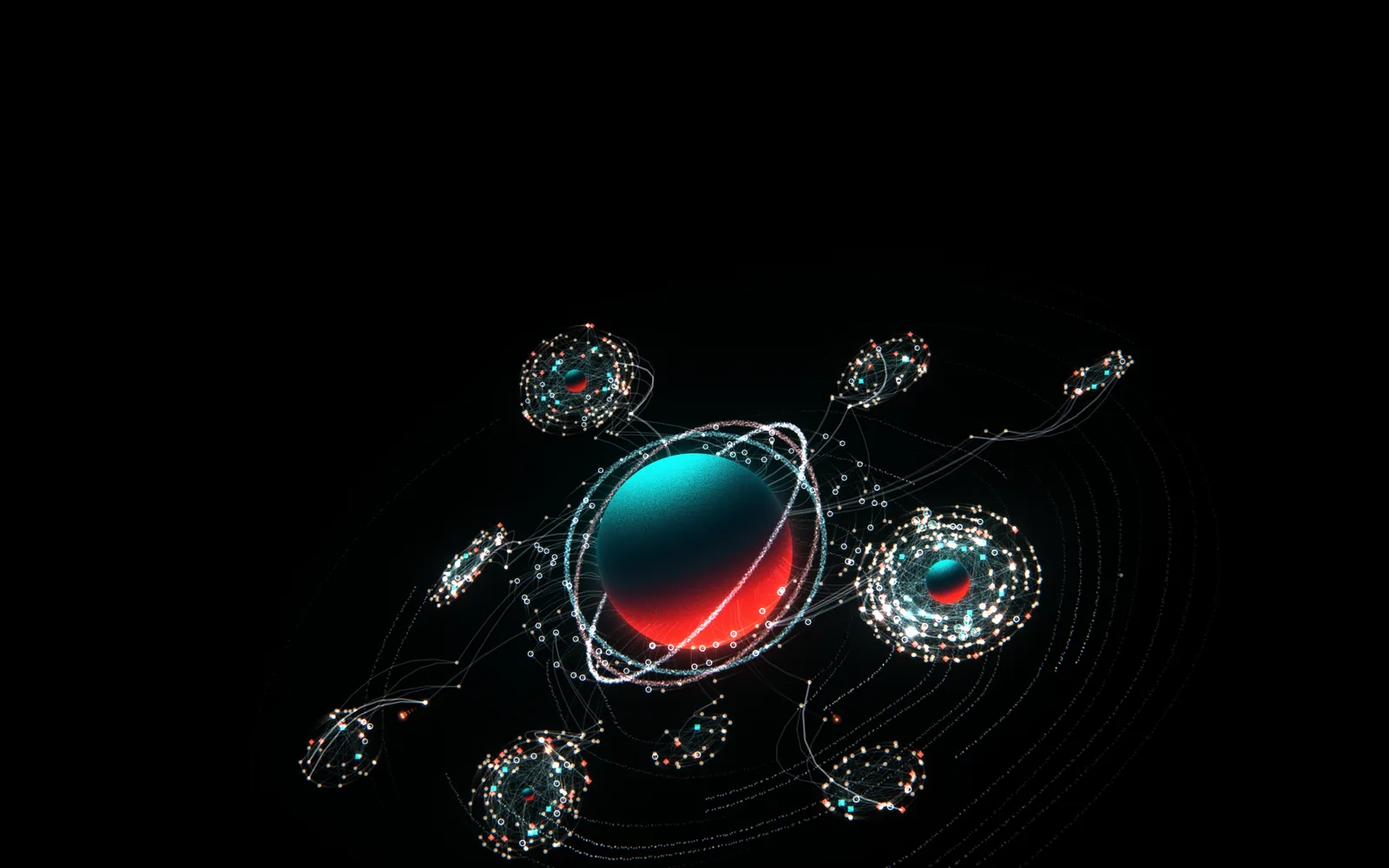
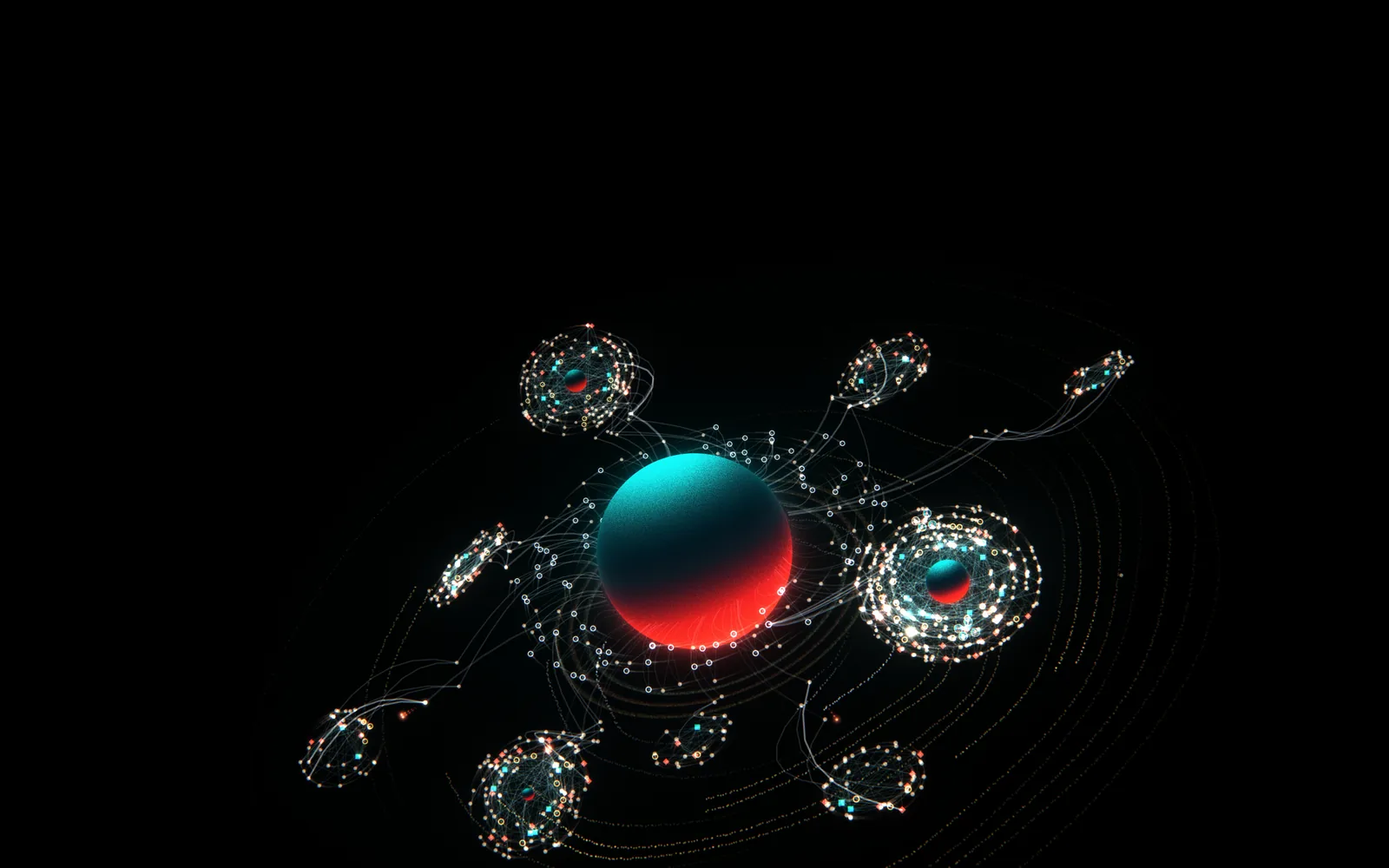
Home: gold is the norm; silver is the national org's
Everyone comes in at the local level: the central platform directs them to
their own Lab, their regional association. So the metal people see is gold,
the regional metal, and they discover what silver means later. In explainer
visuals the national org is always silver.

- Gold: the Labs' orbit dust, knowledge in a Lab, the glyphs' rims, Share
  (its gem, its thread, its colour), the story glyphs (workshops, Mentors'
  rings, the knot's workshop, contributions).
- Silver, the national org's alone: the commons round the orb (its dust, its
  knowledge, the contributors and the ties into it), the orb's wave, and the
  official version it sends out to every Lab. So what the Labs give, gold,
  comes back from the centre as silver.
- --metal is gold; --national is the silver token. The world's card marks
  the commons' knowledge and contributors in silver.
- The account notes say it connects you with your local Lab.
- Poster and share image re-rendered.

Claude-Session: https://claude.ai/code/session_01XKsNEHi8zSBaP9Uzfm5Zkd

Changed region(s): [[0.4062, 0.465, 0.625, 0.806]]

diff --git a/src/scripts/orbnet.ts b/src/scripts/orbnet.ts
@@ -9,12 +9,15 @@
    scale, only actors and their ties. People, places (the libraries), projects and
    knowledge (playbooks, code) are all actors, each its own mark:
      people     a pearl dot         places     a teal square
-     projects   a red diamond       knowledge  a silver ring
+     projects   a red diamond       knowledge  a gold ring
    These are the page's glyphs too, in the pins' materials: the three paths
-   joining opens wear the same colours (learn teal, build red, share
-   silver), so the model, the emblem, the weave and the gems are one visual
-   language. The metal is silver because this is national (regional would be
-   brass); the orbits are silver dust.
+   joining opens wear the same colours (learn teal, build red, share gold), so
+   the model, the emblem, the weave and the gems are one visual language. The
+   metal is gold, the norm: everyone comes in through their own Lab, and gold is
+   the regional metal; the Labs' orbits are gold dust. Silver belongs to the
+   national org alone, so it shows only at the centre: the commons round the orb
+   (its dust, its knowledge, the ties into it), the orb's wave, and what the orb
+   sends out to every Lab. Its meaning is there to be discovered later.
    A Lab is nothing but its ties, and the whole behaves like a complex adaptive
    system: newcomers drift in and are pulled into the Lab with the strongest pull
    near them, new ties form as ideas spread, and it never stops rearranging.
@@ -29,7 +32,8 @@
    the three paths in order. A project makes something new and a spark runs
    out along its ties (red: build); the big ones find their way up through a
    contributor to the orb (teal: what was learned). The orb flares, a silver wave
-   crosses the orbits, and the idea comes back down (silver: passed on) to every
+   crosses the orbits, and the idea comes back down (silver: the national org's
+   official version) to every
    Lab tied to the commons, where it spreads again. Sparks strengthen the ties they
    cross, adopters form new ties, and what reaches the orb leaves new knowledge
    in the commons. Everything leaves a fading trail along its orbit.
@@ -504,8 +508,13 @@ bool culled(vec3 p) { return (uM * p).z * uSide < 0.0; }`;
 const GLSL_STATE = `
 uniform highp sampler2D uPos; uniform highp sampler2D uSt; uniform highp sampler2D uOrb;
 ivec2 texAt(int i) { return ivec2(i % ${TEXW}, i / ${TEXW}); }
-const vec3 COL[5] = vec3[5](vec3(1.0, 0.86, 0.74), vec3(0.14, 0.84, 0.86), vec3(1.0, 0.36, 0.28), vec3(0.84, 0.89, 0.95), vec3(1.0, 0.9, 0.8)); // pearl, teal, red, silver; you
-vec3 colOf(float kind) { int k = int(kind + 0.5); return k >= 10 ? vec3(1.0, 0.9, 0.8) : COL[min(k, 4)]; }`;
+// The metal is gold: everyone comes in through their own Lab, so gold is the norm. Silver is the national
+// org's alone (the commons round the orb, its wave, what it sends out), there to be discovered later.
+const vec3 COL[5] = vec3[5](vec3(1.0, 0.86, 0.74), vec3(0.14, 0.84, 0.86), vec3(1.0, 0.36, 0.28), vec3(1.0, 0.79, 0.44), vec3(1.0, 0.9, 0.8)); // pearl, teal, red, gold; you
+const vec3 NATIONAL = vec3(0.84, 0.89, 0.95); // silver
+vec3 colOf(float kind) { int k = int(kind + 0.5); return k >= 10 ? vec3(1.0, 0.9, 0.8) : COL[min(k, 4)]; }
+// By kind and Lab: knowledge in the commons (no Lab) is the national corpus, so silver.
+vec3 colAt(float kind, float lab) { return int(kind + 0.5) == 3 && lab < -0.5 ? NATIONAL : colOf(kind); }`;
 
 const ACTOR_VS = `#version 300 es
 precision highp float;
@@ -523,7 +532,7 @@ void main() {
   float g = S.w;
   float f = g < -0.5 ? 1.0 - 0.4 * uFocusAmt : (abs(g - uFocus) < 0.5 ? 1.0 + 0.8 * uFocusAmt : 1.0 - 0.6 * uFocusAmt);
   float k = S.z > 9.5 ? 0.0 : S.z, em = k < 0.5 ? uEmph.x : k < 1.5 ? uEmph.y : k < 2.5 ? uEmph.z : k < 3.5 ? uEmph.w : 1.0; // what the shot is about
-  vC = vec4(colOf(S.z), P.w * f * em * (1.0 + 0.12 * depth));
+  vC = vec4(colAt(S.z, S.w), P.w * f * em * (1.0 + 0.12 * depth));
   float fl = S.z > 9.5 ? 1.0 : 0.4 + 0.6 * uDense; // where the network is packed tight on screen, a flash is smaller
   vShape = S.z; vFlash = S.x * fl; vNear = max(depth, 0.0);
   gl_PointSize = S.y * uPx * uZoom * (uD / -v.z) * (1.0 + 0.12 * max(depth, 0.0) - 0.1 * max(-depth, 0.0)) * (1.0 + (S.z > 9.5 ? 0.15 : 0.3 * fl) * S.x);
@@ -633,7 +642,7 @@ void main() {
   float foc = uFocusAmt > 0.0 ? ((abs(aKind.y - uFocus) < 0.5 || abs(aKind.z - uFocus) < 0.5) ? 1.0 + 1.2 * uFocusAmt : 1.0 - 0.55 * uFocusAmt) : 1.0;
   float front = ib < 0 && (uM * M).z > 0.0 ? 0.35 : 1.0;
   float base = (bridge || ib < 0 ? 0.3 : 0.16) * st.x * foc * vis * front;
-  vec3 col = mix(bridge || ib < 0 ? vec3(0.74, 0.8, 0.87) : vec3(0.5, 0.78, 0.8), bridge || ib < 0 ? vec3(0.95, 0.98, 1.0) : vec3(0.92, 0.97, 0.95), st.y * 0.75); // contributors' ties are silver
+  vec3 col = mix(bridge || ib < 0 ? vec3(0.74, 0.8, 0.87) : vec3(0.5, 0.78, 0.8), bridge || ib < 0 ? vec3(0.95, 0.98, 1.0) : vec3(0.92, 0.97, 0.95), st.y * 0.75); // ties into the commons are the national org's: silver
   if (pod) { col = mix(col, mix(vec3(1.0, 0.82, 0.62), vec3(1.0, 0.97, 0.9) * 1.05, st.y), uPod); base += 0.4 * uPod * vis; }
   else base *= (1.0 - 0.55 * uPod) * (0.6 + 0.4 * uDense);
   float width = ((bridge ? 1.3 : 0.85) + 0.45 * (st.x - 1.0) + 0.3 * st.y + (pod ? 0.8 * uPod : 0.0)) * uPx;
@@ -667,7 +676,7 @@ void main() {
   vec3 A = k == 0 ? P.xyz : orbitAt(O, t0), B = orbitAt(O, t1);
   if (culled((A + B) * 0.5)) { gl_Position = vec4(2.0, 2.0, 2.0, 1.0); return; }
   float f = 1.0 - float(k) / float(SEG);
-  quad(A, B, aCorner.x, aCorner.y, (0.4 + 1.3 * f) * uPx, vec4(colOf(S.z), P.w * 0.24 * f * f));
+  quad(A, B, aCorner.x, aCorner.y, (0.4 + 1.3 * f) * uPx, vec4(colAt(S.z, S.w), P.w * 0.24 * f * f));
 }`;
 
 const LINE_FS = `#version 300 es
@@ -688,7 +697,7 @@ ${GLSL_CAM}
 in vec4 aG; // orbit radius, angle, seed, brightness
 uniform float uPx; uniform float uGrow; uniform float uTime; uniform float uBoost;
 uniform vec4 uMass[10]; uniform vec4 uRip[4];
-out float vA; out float vWell; out float vRip;
+out float vA; out float vWell; out float vRip; out float vCore;
 void main() {
   float R = aG.x, th = aG.y + uTime * 0.03 * pow(2.5 / R, 1.5), k = aG.z;
   float rr = R + 0.05 * sin(3.0 * th + k * 6.3) + 0.03 * sin(5.0 * th - k * 11.0) + 0.02 * sin(9.0 * th + k * 3.0);
@@ -704,7 +713,7 @@ void main() {
   vec3 v = toView(w);
   gl_Position = toClip(v);
   float r = length(p);
-  vWell = clamp(well - 0.25, 0.0, 1.5); vRip = rip;
+  vWell = clamp(well - 0.25, 0.0, 1.5); vRip = rip; vCore = smoothstep(2.45, 1.85, r); // the commons round the orb
   float arcs = 1.0 + floor(k * 2.0), len = 0.25 + 0.45 * fract(k * 7.13);
   float sft = fract((k * 6.28 - aG.y) / 6.2832 * arcs);
   float clump = sft < len ? pow(1.0 - sft / len, 1.7) : 0.0;
@@ -714,13 +723,15 @@ void main() {
 
 const FABRIC_FS = `#version 300 es
 precision highp float;
-in float vA; in float vWell; in float vRip; out vec4 o;
+in float vA; in float vWell; in float vRip; in float vCore; out vec4 o;
 ${GLSL_HASH}
 void main() {
   vec2 c = gl_PointCoord * 2.0 - 1.0; float r = dot(c, c); if (r > 1.0) discard;
   float a = vA * smoothstep(1.0, 0.1, r) * (0.6 + 0.8 * hash(gl_FragCoord.xy));
-  vec3 col = mix(vec3(0.36, 0.4, 0.45), vec3(0.86, 0.91, 0.97), clamp(vWell * 0.5, 0.0, 1.0)); // silver dust: the national metal
-  col = mix(col, vec3(0.94, 0.97, 1.0), clamp(vRip * 1.4, 0.0, 1.0));                         // the wave from the orb: silver, what's passed on going out
+  float wl = clamp(vWell * 0.5, 0.0, 1.0);
+  vec3 col = mix(mix(vec3(0.5, 0.37, 0.17), vec3(1.0, 0.86, 0.56), wl),                      // gold dust: the Labs' orbits, the norm
+                 mix(vec3(0.36, 0.4, 0.45), vec3(0.86, 0.91, 0.97), wl), vCore);            // silver round the centre: the national commons
+  col = mix(col, vec3(0.94, 0.97, 1.0), clamp(vRip * 1.4, 0.0, 1.0));                         // the wave from the orb: silver, the national org sending out
   o = vec4(col * a, a);
 }`;
 
@@ -742,8 +753,8 @@ uniform vec3 uFocus; uniform float uFocusSum; uniform float uCamY; uniform float
 uniform vec2 uKnot; // a knot in Build's thread: how tangled, and where
 uniform float uLogo; uniform vec4 uOrbN; uniform highp sampler2D uSwoosh; uniform float uLogoA; // the mark forming: how far, the orb on screen (centre, radius), the swoosh's points, their light
 out vec3 vCol; out float vA;
-const vec3 CANDY[3] = vec3[3](vec3(0.1, 0.84, 0.88), vec3(1.0, 0.3, 0.22), vec3(0.84, 0.89, 0.95)); // teal, red, silver
-const vec3 DUST = vec3(0.62, 0.68, 0.74);
+const vec3 CANDY[3] = vec3[3](vec3(0.1, 0.84, 0.88), vec3(1.0, 0.3, 0.22), vec3(1.0, 0.78, 0.42)); // teal, red, gold
+const vec3 DUST = vec3(0.8, 0.66, 0.42); // gold dust, as every Lab's orbit
 const float TURNS = 20.0, LEN = 53.0, RB = 0.5, Y0 = -0.62, U0 = 0.021;
 void main() {
   int k = int(aS.x + 0.5); float s1 = aS.z, s2 = aS.w, h = fract(s1 * 91.7 + s2 * 13.3);
@@ -779,7 +790,7 @@ void main() {
   float below = mix(1.0, smoothstep(-0.04, 0.2, ndcY), uPortrait * drawn);
   vA = mix(a0, a1, drawn) * (0.55 + 0.9 * h) * smoothstep(1.0, 0.9, u) * below;
   vec3 col = CANDY[k];
-  if (k == 2) col = mix(col, mix(CANDY[0], CANDY[2], smoothstep(uCamY + 3.5, uCamY - 3.5, p.y)), f); // shared: what was learned (teal), going out (silver)
+  if (k == 2) col = mix(col, mix(CANDY[0], CANDY[2], smoothstep(uCamY + 3.5, uCamY - 3.5, p.y)), f); // shared: what was learned (teal), given (gold)
   vCol = mix(mix(DUST, col, mix(0.3, 0.85, uGlow)), col, drawn) * (1.0 + 0.6 * pulse);
   gl_PointSize = (mix(2.0, 1.7 + 0.6 * (0.5 + 0.5 * d) + 0.5 * f, drawn) + 1.4 * pulse) * uPx * (uD / -v.z);
   if (lm > 0.0) {
@@ -964,7 +975,7 @@ void main() {
   vec2 fr = (uv - 0.5) * 0.0012;
   vec3 c = vec3(texture(uScene, uv + fr).r, texture(uScene, uv).g, texture(uScene, uv - fr).b);
   c += texture(uBloom, uv).rgb * uBloomAmt;
-  c += vec3(0.86, 0.91, 0.97) * ring * 0.08;
+  c += vec3(0.86, 0.91, 0.97) * ring * 0.08; // the orb's wave: the national org's, silver
   c = shoulder(c);
   // The brand's grain, only where there's light.
   float l = max(c.r, max(c.g, c.b));
@@ -1305,7 +1316,7 @@ export function mountOrbNet(wrap: HTMLElement, opts: OrbNetOptions = {}): OrbNet
     }
     if (a.type === PLACE) return as("place", "place", say("place", dc ? "dc" : "title"), say("place", dc ? "dcDetail" : "detail"));
     if (a.type === PROJECT) return as("project", "project", sayN("project", "people", Math.max(1, count(i, HUMAN))), model.podOf.has(i) ? say("project", "team") : say("project", dc ? "dc" : "lab"));
-    if (a.c < 0) return as("knowledge", "knowledge", say("knowledge", "commons"), say("knowledge", "commonsDetail"));
+    if (a.c < 0) return as("commons", "knowledge", say("knowledge", "commons"), say("knowledge", "commonsDetail")); // the national corpus: its glyph is silver
     const pj = count(i, PROJECT);
     return as("knowledge", "knowledge", say("knowledge", "title"), pj ? sayN("knowledge", "projects", pj) : say("knowledge", "detail"));
   };
@@ -1434,7 +1445,7 @@ export function mountOrbNet(wrap: HTMLElement, opts: OrbNetOptions = {}): OrbNet
       if (t < pu.t0) continue;
       const u = clamp((t - pu.t0) / pu.dur, 0, 1);
       const A = model.end(pu.from, pu.to), B = model.end(pu.to, pu.from);
-      const c: V3 = pu.kind === 1 ? [0.25, 1, 0.92] : pu.kind === 2 ? [0.86, 0.92, 1] : [1, 0.42, 0.3]; // build red; then what was learned rises teal, and comes back out silver, passed on
+      const c: V3 = pu.kind === 1 ? [0.25, 1, 0.92] : pu.kind === 2 ? [0.86, 0.92, 1] : [1, 0.42, 0.3]; // build red; then what was learned rises teal, and comes back out silver: the national org's official version
       for (let k = 0; k < 5; k++) { const uu = u - k * 0.028; if (uu < 0) break; putS(lerp3(A, B, uu), k ? 8 - k * 1.1 : 13, (k ? 0.5 - k * 0.08 : 0.85) * (1 - 0.25 * u), c); }
     }
     // The small stories on the paths' threads, told with the model's own glyphs, round the camera's place on
@@ -1455,9 +1466,9 @@ export function mountOrbNet(wrap: HTMLElement, opts: OrbNetOptions = {}): OrbNet
     };
     const onStrand = (k: number, y: number, r: number): V3 => { const th = uAt(y) * HX.TURNS * Math.PI * 2 + k * 2.0944 + twist; return [Math.cos(th) * r, y, Math.sin(th) * r]; };
     const cy = T[1];
-    const PEARL: V3 = [1, 0.86, 0.74], SILVER: V3 = [0.86, 0.91, 0.97], RED: V3 = [1, 0.36, 0.28], TEAL: V3 = [0.14, 0.84, 0.86];
+    const PEARL: V3 = [1, 0.86, 0.74], GOLD: V3 = [1, 0.8, 0.45], RED: V3 = [1, 0.36, 0.28], TEAL: V3 = [0.14, 0.84, 0.86];
     const wt = (i: number) => w[i] ?? 0;
-    // Learn: open workshops (silver rings) come down its thread into a room of people, who light up as each
+    // Learn: open workshops (gold rings) come down its thread into a room of people, who light up as each
     // passes; below them the rings carry on brighter, improved by the room.
     if (wt(SCENE.workshops) > 0.01) {
       const v = wt(SCENE.workshops);
@@ -1465,7 +1476,7 @@ export function mountOrbNet(wrap: HTMLElement, opts: OrbNetOptions = {}): OrbNet
       for (let i = 0; i < 3; i++) {
         const ph = (t * 0.07 + i / 3) % 1, y = cy + 4.8 - ph * 9.6;
         lit = Math.max(lit, Math.exp(-(((y - cy) / 0.55) ** 2)));
-        putG(onStrand(0, y, 0.16), 30, 3, y < cy ? 0.7 : 0.1, v * Math.sin(Math.PI * ph), SILVER);
+        putG(onStrand(0, y, 0.16), 30, 3, y < cy ? 0.7 : 0.1, v * Math.sin(Math.PI * ph), GOLD);
       }
       for (let i = 0; i < 8; i++) { const a = (i / 8) * Math.PI * 2 + 0.3; putG([Math.cos(a) * 1.35, cy + Math.sin(a) * 1.05, 0.1 * Math.sin(a * 2)], 17, 0, 0.15 + 0.75 * lit, v, PEARL); }
     }
@@ -1498,7 +1509,7 @@ export function mountOrbNet(wrap: HTMLElement, opts: OrbNetOptions = {}): OrbNet
         }
       });
       const mentors: V3[] = [[-0.1, cy + 1.35, 0], [1.85, cy - 0.75, 0]];
-      mentors.forEach((m) => { putG(m, 17, 0, 0.3, vb * fTeam, PEARL); putG(m, 34, 3, 0.2, vb * fTeam * 0.9, SILVER); });
+      mentors.forEach((m) => { putG(m, 17, 0, 0.3, vb * fTeam, PEARL); putG(m, 34, 3, 0.2, vb * fTeam * 0.9, GOLD); });
       putG([0, cy, 0], 48, 5, 0, wt(SCENE.pod) * (1 - fTeam) * 0.55, RED); // the problem situation the Pod forms round
       // The knot, on a loop while its scene holds: it tangles, a workshop comes from a Mentor and frees it,
       // then rises up the thread.
@@ -1509,14 +1520,14 @@ export function mountOrbNet(wrap: HTMLElement, opts: OrbNetOptions = {}): OrbNet
         let rq: V3 | null = null, ra = 0;
         if (ph > 0.2 && ph < 0.62) { const k = ease(clamp((ph - 0.22) / 0.23, 0, 1)); rq = lerp3(mentors[0], [0, cy + 0.05, 0], k); ra = 1; }
         else if (ph >= 0.62) { const k = ease(clamp((ph - 0.62) / 0.33, 0, 1)); rq = onStrand(1, cy + k * 5.5, 0.16); ra = 1 - k * 0.6; }
-        if (rq) putG(rq, 32, 3, 0.6, vs * ra, SILVER);
+        if (rq) putG(rq, 32, 3, 0.6, vs * ra, GOLD);
       }
     }
-    // Share: contributions (a workshop teal, a method red, code silver) rise up its thread to the centre,
+    // Share: contributions (a workshop teal, a method red, code gold) rise up its thread to the centre,
     // where the camera follows them; there they go into the orb.
     const vr = wt(SCENE.rising) + wt(SCENE.centre);
     if (vr > 0.01) {
-      const cols: V3[] = [TEAL, RED, SILVER];
+      const cols: V3[] = [TEAL, RED, GOLD];
       for (let i = 0; i < 6; i++) {
         const ph = (t * 0.06 + i / 6) % 1;
         for (let tl = 0; tl < 4; tl++) {

diff --git a/src/styles/home.css b/src/styles/home.css
@@ -167,14 +167,17 @@ html[data-cycle="open"] [data-when="closed"], html[data-cycle="closed"] [data-wh
 
 /* ── one visual language (see "The visual language" in the README): the model's actors and the three paths
    joining opens share their marks, colours and materials. The pins' materials: candy enamel with a gloss and a
-   polished metal rim, and the metal itself. The metal is silver, because this is national (regional pages
-   would be brass, as the pieces are).
+   polished metal rim, and the metal itself. The metal is gold, the norm: everyone comes in through their own
+   Lab, and gold is the regional metal, as the pieces are. Silver (--national) belongs to the national org alone,
+   and only where an explainer shows it (the commons round the orb, what it sends out); people discover what it
+   means later.
      people     a pearl dot
      places     a teal square    learn         teal candy enamel
      projects   a red diamond    build         red candy enamel
-     knowledge  a silver ring    share         silver
+     knowledge  a gold ring      share         gold
    The same glyphs mark the actors in the world's card and the paths everywhere else (.gem[data-gem]). ── */
-.hm { --pearl: #FFDBBD; --candy-teal: #00A8B8; --candy-red: #ED1920; --metal: #C9CED3; --metal-hi: #F4F7FA; --metal-lo: #6F7882;
+.hm { --pearl: #FFDBBD; --candy-teal: #00A8B8; --candy-red: #ED1920; --metal: #CFAB67; --metal-hi: #F4DFA8; --metal-lo: #8C6B2E;
+  --national: #C9CED3; --national-hi: #F4F7FA; --national-lo: #6F7882;
   --gloss: radial-gradient(circle at 32% 28%, rgba(255, 255, 255, 0.85) 0 10%, rgba(255, 255, 255, 0) 36%); }
 .gem, .mk { display: inline-block; flex: none; width: 12px; height: 12px; }
 .mk { width: 10px; height: 10px; }
@@ -183,7 +186,10 @@ html[data-cycle="open"] [data-when="closed"], html[data-cycle="closed"] [data-wh
 .gem[data-gem="share"], .mk-knowledge { border-radius: 50%; border: 2.5px solid transparent;
   background: linear-gradient(var(--ink), var(--ink)) padding-box, linear-gradient(135deg, var(--metal-hi), var(--metal) 45%, var(--metal-lo)) border-box; box-shadow: 0 0 12px -3px var(--metal); }
 .mk-person, .mk-contributor { border-radius: 50%; background: var(--gloss), var(--pearl); }
-.mk-contributor { box-shadow: 0 0 0 1.5px var(--metal); }
+/* The national org's own, in the world's card: the commons' knowledge, and the contributors who keep it. */
+.mk-commons { border-radius: 50%; border: 2.5px solid transparent;
+  background: linear-gradient(var(--ink), var(--ink)) padding-box, linear-gradient(135deg, var(--national-hi), var(--national) 45%, var(--national-lo)) border-box; box-shadow: 0 0 12px -3px var(--national); }
+.mk-contributor { box-shadow: 0 0 0 1.5px var(--national); }
 .mk-lab { border-radius: 50%; background: linear-gradient(160deg, #0BD2D0 0%, #01191F 55%, #FA291B 100%); }
 .hm-ch[data-ch="learn"] { --chc: var(--candy-teal); }
 .hm-ch[data-ch="build"] { --chc: var(--candy-red); }

diff --git a/README.md b/README.md
@@ -103,8 +103,8 @@ The home page's live model, the orbit emblem, the weave and the pins are one sys
 
 - **The ground is ink** (`#00141B`). Light comes only from the glows (teal above, red below, as in the logo), with the grain only in the light, and from sparks.
 - **The orb is The Labs:** the logo's orb, with its three latitude bands. It's the deepest well, and it's always the way in (Join The Labs).
-- **The metal is silver, because this is national.** Silver is for national, always; brass is for regional (as on the pins and cockades). Everywhere the system shows metal on these pages (the orbits' dust, contributors' ties, the wave, knowledge, the glyphs' rims, Share) it's silver. Regional pages, when there are any, would swap the metal for brass (`--metal` in `src/styles/home.css`, and the silver values in `src/scripts/orbnet.ts`).
-- **Orbits are paths.** In the live model they're silver dust, bending into the wells of dense Labs. A swoosh (the logo's chevron, a craft in orbit) flies a path.
+- **Gold is the norm; silver is the national org's.** Everyone comes in at the local level: the central platform (the account) directs them to their own Lab, their regional association. So the metal people see is gold, the regional metal (as on the pins and cockades): the Labs' orbits, knowledge, the glyphs' rims, Share (`--metal` in `src/styles/home.css`; the gold values in `src/scripts/orbnet.ts`). Silver means the national org, and in explainer visuals the national org is always silver: the commons round the orb (its dust, its knowledge, the contributors and the ties into it), the orb's wave, and the official versions it sends out to every Lab (`--national`, and `NATIONAL` in the shaders). People discover what silver means later; the page never explains it.
+- **Orbits are paths.** In the live model they're gold dust, bending into the wells of dense Labs, and silver only round the centre, where the commons is. A swoosh (the logo's chevron, a craft in orbit) flies a path.
 - **One set of glyphs** (`.gem` and `.mk` in `src/styles/home.css`; the same shapes in `src/scripts/orbnet.ts`):
 
   | Glyph | Actor in the model | Path | Colour (on the page / as light) | Material |
@@ -112,13 +112,14 @@ The home page's live model, the orbit emblem, the weave and the pins are one sys
   | pearl dot | people | (the people on every path) | `#FFDBBD` | pearl |
   | teal square | places | **Learn** | `#00A8B8` / `#24D6DB` | teal candy enamel |
   | red diamond | projects | **Build** | `#ED1920` / `#FF5C47` | red candy enamel |
-  | silver ring | knowledge, and contributors' ties | **Share** | `#C9CED3` / `#F4F7FA` | polished silver |
+  | gold ring | knowledge | **Share** | `#CFAB67` / `#FFC970` | polished gold |
+  | silver ring | the national commons' knowledge, and the ties into it | | `#C9CED3` / `#F4F7FA` | polished silver |
   | small orb | a Lab | | the logo's bands | |
 
-- **The paths in motion.** Sparks follow the cycle: red out along a project's ties (build), teal up through a contributor to the orb (what was learned), then silver back out to every Lab (passed on), where it spreads again. The wave from the orb is silver.
-- **The weave: the orbits drawn out through time** (`STRAND_VS` in `src/scripts/orbnet.ts`). An orbit carried on through time is a helix, and that's how the weave is made. The three paths are three of the system's own orbits, neighbours round the orb in its plane, in the same silver dust as every other orbit (beside "three paths open up" they glow faintly in their colours). As the journey moves on they're drawn down out of the plane, their turns tight where they leave their orbits and even below, their radius narrowing, so they drain from the system into a vortex beneath the orb and wind round one another as one triple helix, turning as orbits turn. The camera travels down it: in each path's scene that path's strand draws in to a single thread near the axis while the other two widen into faint loose turns round it; Share's thread runs from teal (what was learned) to silver (passed on). Then the camera rises back up, and the helix retracts into the orbits as the system returns. It's all in the world, through its camera, so it has the same grain, bloom and glow as everything else; on a portrait screen the drawn-out helix fades below the middle, where the words are. The paths aren't steps: use the weave only to stand for them, never as ornament. **Stories on the threads**, told with the model's own glyphs round the camera's place on the helix: open workshops (silver rings) coming down Learn's thread into a ring of people who light up as each passes; on Build's, strangers drifting in to become a Pod round a problem situation (a red glow), then teams round their projects (red diamonds) with Mentors (silver-rimmed) beside them, a knot in the thread that a Mentor's workshop comes down to and frees before rising up the thread, and the projects lighting up at the Showcase; on Share's, contributions (teal, red, silver) rising to the centre, where the orb flares and the official version goes out to every Lab. **At the very end the paths become the logo:** the rest of the system fades, and every grain of the three paths flies to a point of the swoosh (sampled from the brand kit's `orb-mark.png`, denser where it's brighter), laid over the orb as in the mark, in its teal and with the world's grain; then it settles into the exact logo: the page lays the brand's own lockup over the world's orb (its orb at 511.1, 484.3, radius 348.2 in the 2,061-wide source, scaled to the world's), the wordmark fading in as the swoosh forms and the mark taking over as the dust and the orb's halo let go.
-- **The emblem** (for print and social, not on the page). The orb with three orbits crossing over and under each other, a swoosh flying each in its path's material: `LabsPin.blend`, scene "Home Paths" (rendered in gold; re-render in silver for national use).
-- **Materials.** Candy enamel (deep colour, a gloss, fine glitter) and polished metal, from `LabsPin.blend`. On the page, glyphs are drawn in CSS with a gloss and a silver rim, so they read as small enamel pins.
+- **The paths in motion.** Sparks follow the cycle: red out along a project's ties (build), teal up through a contributor to the orb (what was learned), then silver back out to every Lab (the national org's official version), where it spreads again. The wave from the orb is silver.
+- **The weave: the orbits drawn out through time** (`STRAND_VS` in `src/scripts/orbnet.ts`). An orbit carried on through time is a helix, and that's how the weave is made. The three paths are three of the system's own orbits, neighbours round the orb in its plane, in the same gold dust as every other Lab's orbit (beside "three paths open up" they glow faintly in their colours). As the journey moves on they're drawn down out of the plane, their turns tight where they leave their orbits and even below, their radius narrowing, so they drain from the system into a vortex beneath the orb and wind round one another as one triple helix, turning as orbits turn. The camera travels down it: in each path's scene that path's strand draws in to a single thread near the axis while the other two widen into faint loose turns round it; Share's thread runs from teal (what was learned) to gold (given). Then the camera rises back up, and the helix retracts into the orbits as the system returns. It's all in the world, through its camera, so it has the same grain, bloom and glow as everything else; on a portrait screen the drawn-out helix fades below the middle, where the words are. The paths aren't steps: use the weave only to stand for them, never as ornament. **Stories on the threads**, told with the model's own glyphs round the camera's place on the helix: open workshops (gold rings) coming down Learn's thread into a ring of people who light up as each passes; on Build's, strangers drifting in to become a Pod round a problem situation (a red glow), then teams round their projects (red diamonds) with Mentors (gold-rimmed) beside them, a knot in the thread that a Mentor's workshop comes down to and frees before rising up the thread, and the projects lighting up at the Showcase; on Share's, contributions (teal, red, gold) rising to the centre, where the orb flares and the official version goes out to every Lab in silver: what the Labs give, gold, comes back from the national org as silver. **At the very end the paths become the logo:** the rest of the system fades, and every grain of the three paths flies to a point of the swoosh (sampled from the brand kit's `orb-mark.png`, denser where it's brighter), laid over the orb as in the mark, in its teal and with the world's grain; then it settles into the exact logo: the page lays the brand's own lockup over the world's orb (its orb at 511.1, 484.3, radius 348.2 in the 2,061-wide source, scaled to the world's), the wordmark fading in as the swoosh forms and the mark taking over as the dust and the orb's halo let go.
+- **The emblem** (for print and social, not on the page). The orb with three orbits crossing over and under each other, a swoosh flying each in its path's material: `LabsPin.blend`, scene "Home Paths" (rendered in gold, the norm).
+- **Materials.** Candy enamel (deep colour, a gloss, fine glitter) and polished metal, from `LabsPin.blend`. On the page, glyphs are drawn in CSS with a gloss and a gold rim, so they read as small enamel pins.
 - **Interface colour is separate.** Teal for links, kickers and focus, and the Join button's own colour, are the interface. The candy colours mean a path. Don't use a path colour for chrome, or chrome colours for a path.
 - **Calm.** One big idea at a time on a slow heartbeat; nothing follows the cursor; no stars or dust that could be mistaken for actors. Regional Labs carry no labels until the structure is announced.
 - **Words beside the picture, never over it.** No scrims, panels, dimming or vignettes over the world. Scenes' words are small and supporting, and cross-fade in place; the detail comes after the journey, on the plain ground.
@@ -140,7 +141,7 @@ The home page's live model, the orbit emblem, the weave and the pins are one sys
 
 ## Assets
 
-The home page's world (`src/scripts/orbnet.ts`) is a live model of The Labs, plain WebGL 2, no library, held on screen (sticky) through the journey and scrolled away after it. The Labs as a federated, practice-based research network, drawn the way actor-network theory sees one: people, places, projects and knowledge are all actors (a pearl dot, a teal square, a red diamond, a silver ring: the page's glyphs, see The visual language), and a Lab is nothing but their ties. Local Labs orbit the orb through orbits of silver dust; a commons of contributors and shared knowledge circles it; contributors bridge each Lab to the commons. It behaves like a complex adaptive system: newcomers drift in and are pulled into the Lab with the strongest pull near them, and ideas that spread leave new ties. Gravity is the density of relationships: a dense Lab's actors orbit tighter and faster, it pulls in more newcomers, glows, bends the orbits under it into a deeper well, and past a density closes into a small orb of its own. Innovations are sparks, in the three paths' colours: out along a project's ties (red, build), up through the commons to the orb (teal, what was learned), and, after the orb glows and a silver wave crosses the orbits, back out to every Lab (silver, passed on); the heartbeat is slow on purpose, so one idea can be followed rather than many flashing at once. The orb is the logo's: its three bands are latitude bands round one pole, fitted to `orb-mark.png`, coloured from the mark by latitude. **The camera travels the journey's scenes** (`SHOTS`, anchored by the sections marked `data-scene`, in order), always moving as you scroll so you can feel yourself going forward: on a smooth curve through every shot rather than stopping at each, slowing (never stopping) only at the few pauses kept for emphasis (`PAUSE`: the triad, the centre, the close), and coming to rest only at the end, on the logo. The scenes' words drift up a little as you scroll, too (a scroll-linked CSS animation, run by the browser). The shots: the whole system, wide; the system again, right of the words; close on the centre; along the orbits' plane with the orb high, the weave drawn down out of it; down the weave's axis, a little further for each of a path's scenes, so the system rises out of frame; back up to the centre and the weave; and the whole system again, where a new Lab is born. **The weave** is drawn in the same renderer (see The visual language). Anything in the system can be asked what it is while the system is the picture: point at an actor (on a touch screen, tap it) and a small card beside it says what it is and what it's doing here, while it lights up with its ties and its Lab steps forward; the words are in `content/site/home.json` (`model.hover`). Nothing follows your cursor. The orb is the hero's button, "Join The Labs": a real link laid exactly over it, its label on the orb's own face, revealed as you point at it or focus it; pressing it sets off the one big pulse before the account opens. One orb at a time: while the world's orb is on screen the header carries the wordmark alone. It's rendered into a high-range buffer with a finishing pass (bloom on true highlights, a gentle shoulder that keeps the brand colours, grain only in the light) and screened over the stage's glows, so the words sit inside its light; the finishing pass paints the stage itself (`stage()`, the same gradients and grain as `.hm-world`), so the browser composites one opaque picture with no blending each frame. On a touch screen nothing over the world uses `backdrop-filter`, and phones get an even 60 frames a second and a lighter render scale. Quality adapts to the typical frame time (a median, so one long frame never changes it); there's a pause button during the journey; reduced motion holds the world still (the camera and the weave still follow the page); no WebGL keeps the poster (`public/join/hub-poster.webp`). To re-render the poster and the share image, open `/?orb=poster` and save the canvas (it's drawn with `preserveDrawingBuffer`).
+The home page's world (`src/scripts/orbnet.ts`) is a live model of The Labs, plain WebGL 2, no library, held on screen (sticky) through the journey and scrolled away after it. The Labs as a federated, practice-based research network, drawn the way actor-network theory sees one: people, places, projects and knowledge are all actors (a pearl dot, a teal square, a red diamond, a gold ring: the page's glyphs, see The visual language), and a Lab is nothing but their ties. Local Labs orbit the orb through orbits of gold dust; a commons of contributors and shared knowledge circles it, in silver (the national org's); contributors bridge each Lab to the commons. It behaves like a complex adaptive system: newcomers drift in and are pulled into the Lab with the strongest pull near them, and ideas that spread leave new ties. Gravity is the density of relationships: a dense Lab's actors orbit tighter and faster, it pulls in more newcomers, glows, bends the orbits under it into a deeper well, and past a density closes into a small orb of its own. Innovations are sparks, in the three paths' colours: out along a project's ties (red, build), up through the commons to the orb (teal, what was learned), and, after the orb glows and a silver wave crosses the orbits, back out to every Lab (silver: the national org's official version); the heartbeat is slow on purpose, so one idea can be followed rather than many flashing at once. The orb is the logo's: its three bands are latitude bands round one pole, fitted to `orb-mark.png`, coloured from the mark by latitude. **The camera travels the journey's scenes** (`SHOTS`, anchored by the sections marked `data-scene`, in order), always moving as you scroll so you can feel yourself going forward: on a smooth curve through every shot rather than stopping at each, slowing (never stopping) only at the few pauses kept for emphasis (`PAUSE`: the triad, the centre, the close), and coming to rest only at the end, on the logo. The scenes' words drift up a little as you scroll, too (a scroll-linked CSS animation, run by the browser). The shots: the whole system, wide; the system again, right of the words; close on the centre; along the orbits' plane with the orb high, the weave drawn down out of it; down the weave's axis, a little further for each of a path's scenes, so the system rises out of frame; back up to the centre and the weave; and the whole system again, where a new Lab is born. **The weave** is drawn in the same renderer (see The visual language). Anything in the system can be asked what it is while the system is the picture: point at an actor (on a touch screen, tap it) and a small card beside it says what it is and what it's doing here, while it lights up with its ties and its Lab steps forward; the words are in `content/site/home.json` (`model.hover`). Nothing follows your cursor. The orb is the hero's button, "Join The Labs": a real link laid exactly over it, its label on the orb's own face, revealed as you point at it or focus it; pressing it sets off the one big pulse before the account opens. One orb at a time: while the world's orb is on screen the header carries the wordmark alone. It's rendered into a high-range buffer with a finishing pass (bloom on true highlights, a gentle shoulder that keeps the brand colours, grain only in the light) and screened over the stage's glows, so the words sit inside its light; the finishing pass paints the stage itself (`stage()`, the same gradients and grain as `.hm-world`), so the browser composites one opaque picture with no blending each frame. On a touch screen nothing over the world uses `backdrop-filter`, and phones get an even 60 frames a second and a lighter render scale. Quality adapts to the typical frame time (a median, so one long frame never changes it); there's a pause button during the journey; reduced motion holds the world still (the camera and the weave still follow the page); no WebGL keeps the poster (`public/join/hub-poster.webp`). To re-render the poster and the share image, open `/?orb=poster` and save the canvas (it's drawn with `preserveDrawingBuffer`).
 
 `npm run covers` makes the portrait crops of the three chapter covers that phones get (`public/join/*-p-900.webp` and `*-p-1400.webp`, from the 1800w files, centred on each cover's `position`). The phone-sized orbits video (`orbits-600.mp4`, `orbits-600.webm`) was encoded with ffmpeg at 600px wide; re-encode it the same way if the source changes.
 
